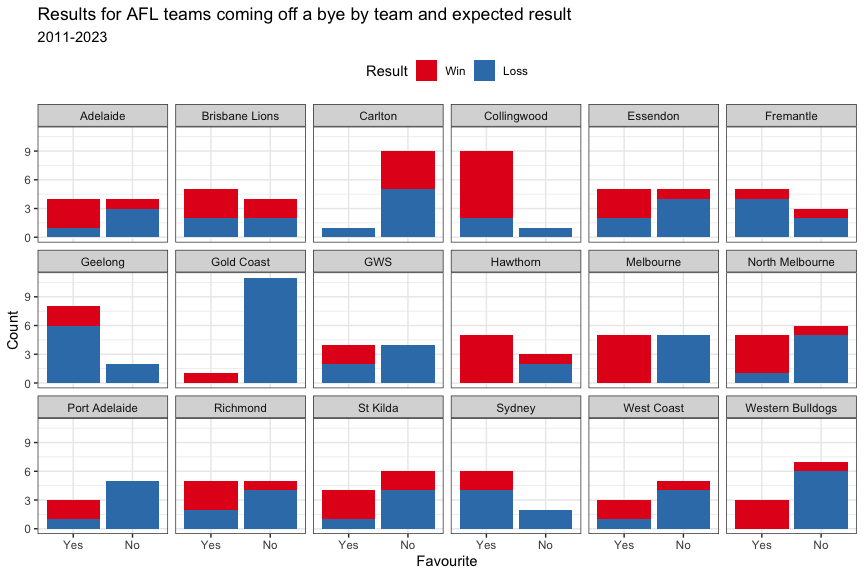
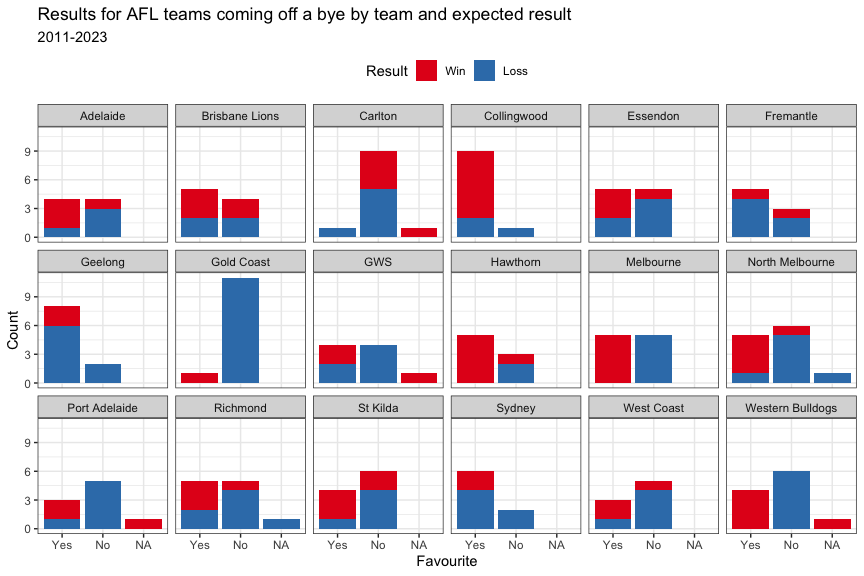
Fixed small error when calculating favourites

diff --git a/code/R/Rmd/bye_scoring/post_bye_results.md b/code/R/Rmd/bye_scoring/post_bye_results.md
@@ -1,7 +1,7 @@
 AFL: post-bye results
 ================
 Neil Saunders
-2023-07-02 14:47:55.742315
+2023-07-03 21:26:23.71594
 
 - [Summary](#summary)
 - [Data](#data)
@@ -25,6 +25,8 @@ Neil Saunders
     - [By team and expected result](#by-team-and-expected-result)
     - [Unexpected wins and losses by
       season](#unexpected-wins-and-losses-by-season)
+  - [Comparison of expected results with other
+    games](#comparison-of-expected-results-with-other-games)
   - [Comparison to media articles](#comparison-to-media-articles)
     - [SEN June 25 2023](#sen-june-25-2023)
     - [AFL June 6 2023](#afl-june-6-2023)
@@ -75,7 +77,7 @@ Then:
 The final dataset `post_bye_games` looks like this. It gets written to
 CSV.
 
-    ## Rows: 244
+    ## Rows: 250
     ## Columns: 16
     ## $ Game         <dbl> 13775, 13782, 13794, 13795, 13795, 13800, 13802, 13802, 13803, 13809, 13811, 13812, 13817, 13825, 13836, 13841, 13854, 13864, 13868, 1388…
     ## $ Season       <dbl> 2011, 2011, 2011, 2011, 2011, 2011, 2011, 2011, 2011, 2011, 2011, 2011, 2011, 2011, 2011, 2011, 2011, 2011, 2011, 2011, 2011, 2011, 2011,…
@@ -204,7 +206,7 @@ Home.Team
 Loss
 </td>
 <td style="text-align:right;">
-67
+69
 </td>
 <td style="text-align:right;">
 34
@@ -215,10 +217,10 @@ Loss
 Win
 </td>
 <td style="text-align:right;">
-31
+34
 </td>
 <td style="text-align:right;">
-36
+37
 </td>
 </tr>
 </tbody>
@@ -249,16 +251,16 @@ alternative
 <tbody>
 <tr>
 <td style="text-align:right;">
-2.276744
+2.198086
 </td>
 <td style="text-align:right;">
-0.0110489
+0.0127839
 </td>
 <td style="text-align:right;">
-1.157719
+1.133005
 </td>
 <td style="text-align:right;">
-4.52575
+4.305763
 </td>
 <td style="text-align:left;">
 Fisher’s Exact Test for Count Data
@@ -345,6 +347,18 @@ This one shows that unexpected losses are slightly more frequent than
 unexpected wins.
 
 ![](post_bye_results_files/figure-gfm/post-bye-unexpected-04-1.png)<!-- -->
+
+## Comparison of expected results with other games
+
+We might ask: is the proportion of post-bye games with unexpected
+results very different to other games?
+
+The question then is: with which “other games” should we compare? Some
+ideas are:
+
+- all of the games that were not post-bye over the same period
+- all of the games that were not post-bye in the same rounds
+- all of the games that were not post-bye on the same dates
 
 ## Comparison to media articles
 
@@ -1284,7 +1298,7 @@ W
 1.72
 </td>
 <td style="text-align:left;">
-N
+Y
 </td>
 </tr>
 <tr>
@@ -1343,6 +1357,33 @@ W
 </td>
 <td style="text-align:left;">
 Y
+</td>
+</tr>
+<tr>
+<td style="text-align:right;">
+2023
+</td>
+<td style="text-align:left;">
+R16
+</td>
+<td style="text-align:left;">
+Western Bulldogs
+</td>
+<td style="text-align:left;">
+Home.Team
+</td>
+<td style="text-align:left;">
+Fremantle
+</td>
+<td style="text-align:right;">
+29
+</td>
+<td style="text-align:left;">
+W
+</td>
+<td style="text-align:right;">
+</td>
+<td style="text-align:left;">
 </td>
 </tr>
 </tbody>
